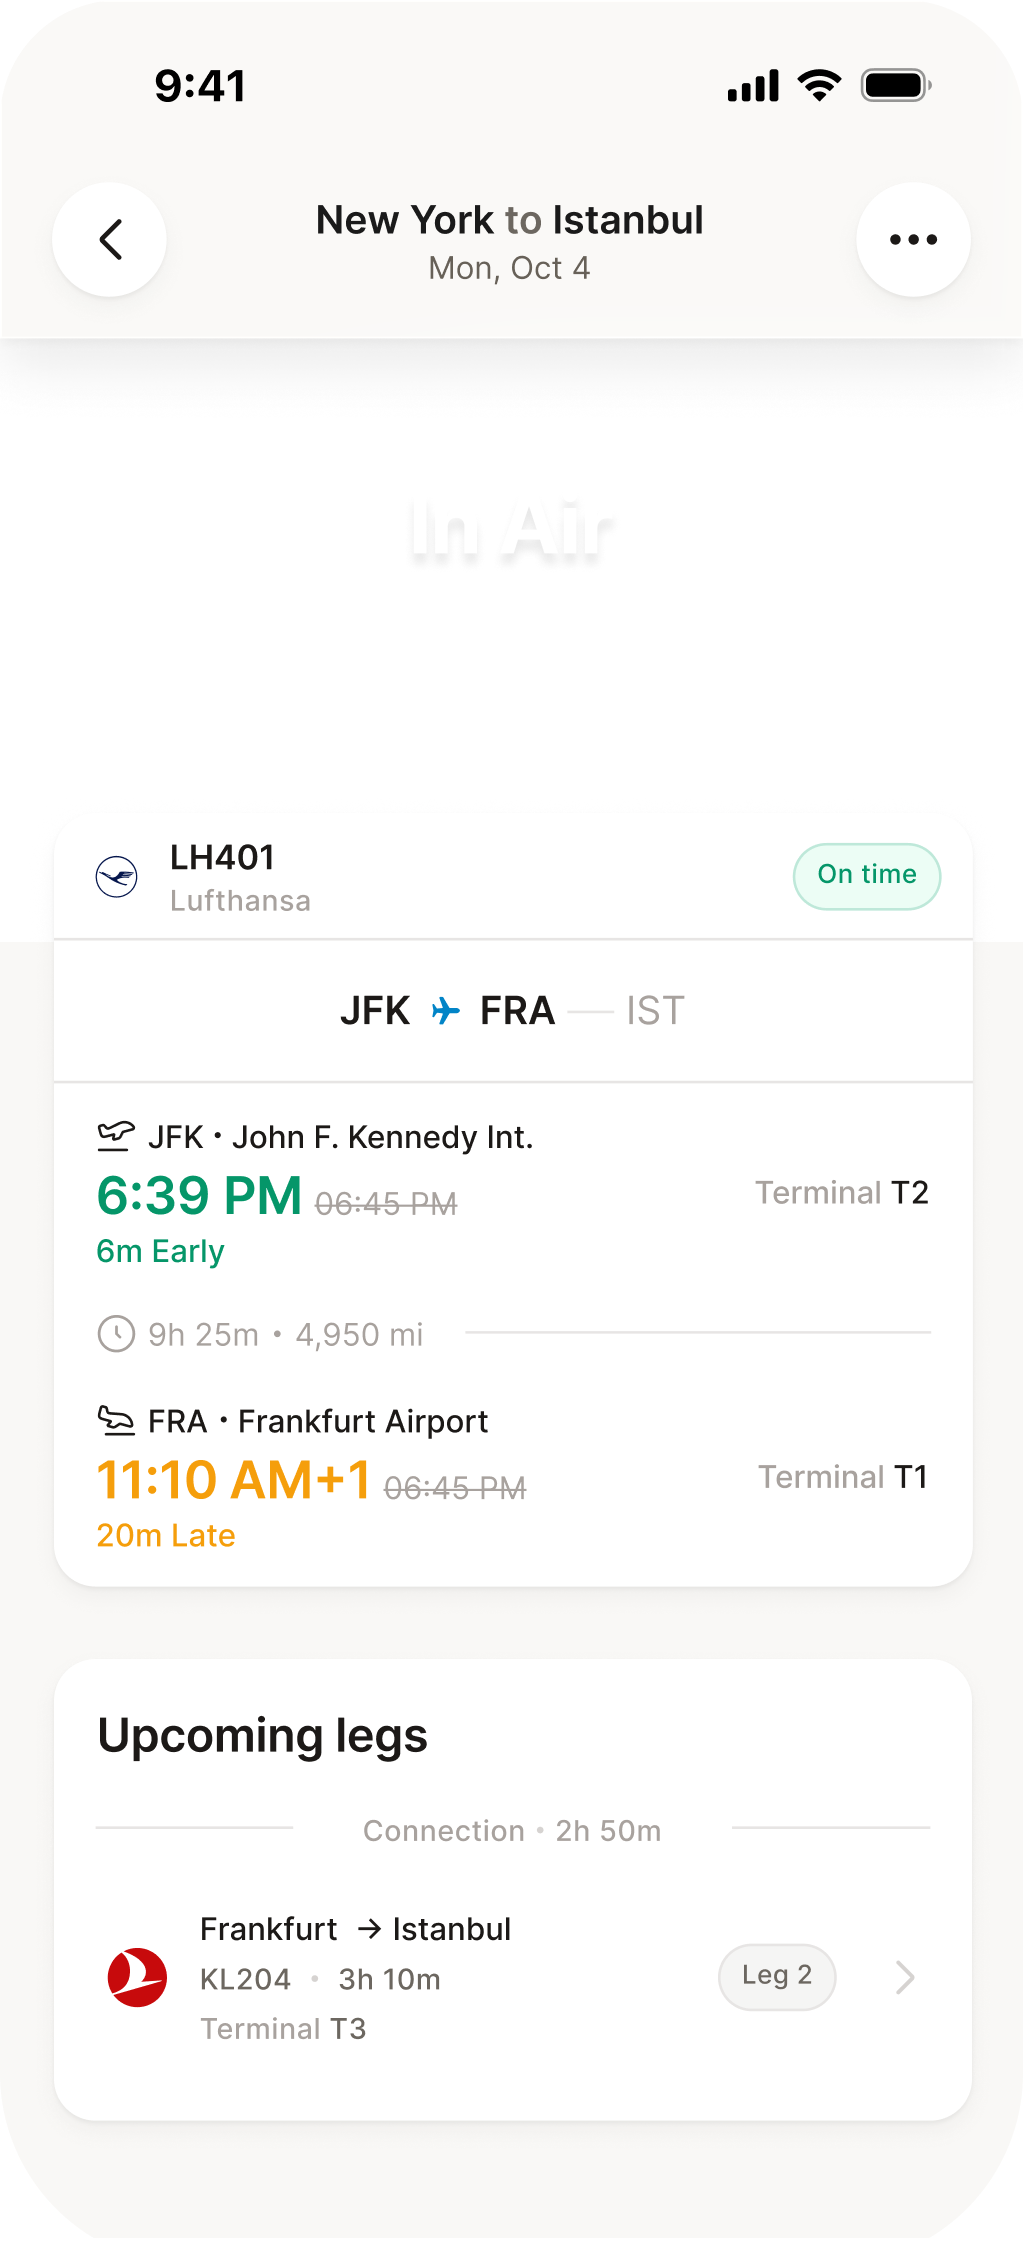
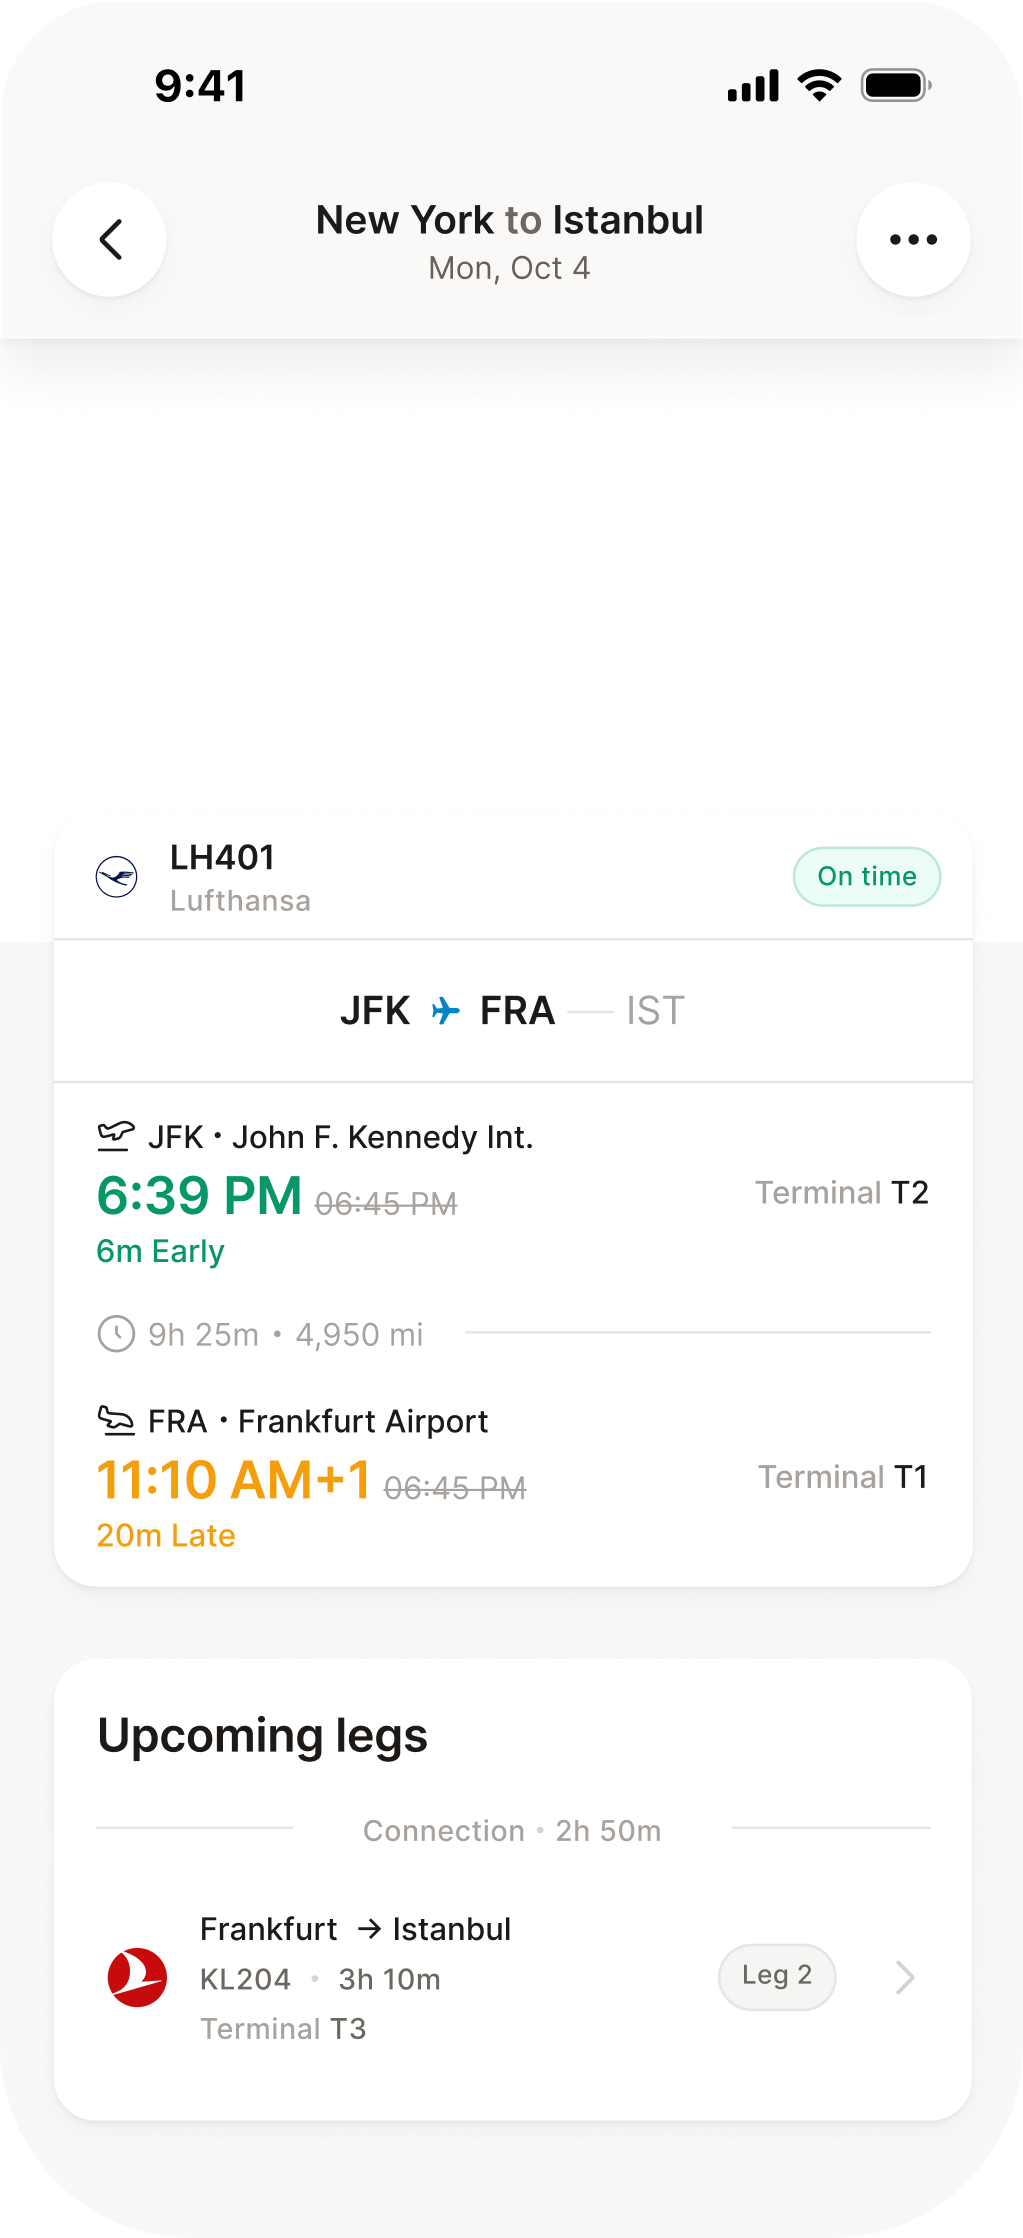
Update page and assets

diff --git a/app/page.tsx b/app/page.tsx
@@ -678,19 +678,19 @@ function FigmaHeroSection() {
 
   // Badge animations — scroll-triggered, fires once when badge area scrolls into view
   useEffect(() => {
-    const badges: [React.RefObject<HTMLDivElement | null>, React.RefObject<HTMLDivElement | null>, number, number][] = [
-      [lineRealRef,     pillRealRef,     0,    300],
-      [lineAircraftRef, pillAircraftRef, 200,  500],
-      [lineConnRef,     pillConnRef,     400,  700],
-      [lineHistRef,     pillHistRef,     600,  900],
-      [lineDelayRef,    pillDelayRef,    800,  1100],
-      [lineGateRef,     pillGateRef,     1000, 1300],
+    const badges: [React.RefObject<HTMLDivElement | null>, React.RefObject<HTMLDivElement | null>, number, number, boolean][] = [
+      [lineRealRef,     pillRealRef,     0,    300,  true],
+      [lineAircraftRef, pillAircraftRef, 200,  500,  false],
+      [lineConnRef,     pillConnRef,     400,  700,  false],
+      [lineHistRef,     pillHistRef,     600,  900,  false],
+      [lineDelayRef,    pillDelayRef,    800,  1100, true],
+      [lineGateRef,     pillGateRef,     1000, 1300, true],
     ];
 
     function runBadges() {
-      badges.forEach(([lineRef, pillRef, lineDelay, pillDelay]) => {
+      badges.forEach(([lineRef, pillRef, lineDelay, pillDelay, isLeft]) => {
         setTimeout(() => {
-          if (lineRef.current) lineRef.current.style.animation = 'line-reveal 0.45s ease-out forwards';
+          if (lineRef.current) lineRef.current.style.animation = `${isLeft ? 'line-reveal-rtl' : 'line-reveal'} 0.45s ease-out forwards`;
         }, lineDelay);
         setTimeout(() => {
           if (pillRef.current) pillRef.current.style.animation = 'badge-pop 0.55s cubic-bezier(0.34, 1.56, 0.64, 1) forwards';
@@ -746,6 +746,10 @@ function FigmaHeroSection() {
           @keyframes line-reveal {
             from { clip-path: inset(-2px 100% -2px -2px); }
             to   { clip-path: inset(-2px 0%   -2px -2px); }
+          }
+          @keyframes line-reveal-rtl {
+            from { clip-path: inset(-2px -2px -2px 100%); }
+            to   { clip-path: inset(-2px -2px -2px 0%);   }
           }
           @keyframes badge-pop {
             0%   { opacity: 0; transform: scale(0.78); filter: blur(5px); }
@@ -919,7 +923,7 @@ function FigmaHeroSection() {
             </div>
           </div>
           {/* Gate & terminal changes pill */}
-          <div className="hero-badge absolute flex gap-[8px] items-center left-[13px] top-[176px]" data-node-id="7300:48542">
+          <div className="hero-badge absolute flex gap-[8px] items-center left-[27px] top-[176px]" data-node-id="7300:48542">
             <div ref={pillGateRef} className="bg-gradient-to-b border border-[#e7e5e4] border-solid flex from-[38.542%] from-white gap-[12px] h-[48px] items-center justify-center px-[16px] py-[12px] relative rounded-[24px] shrink-0 to-[#f5f5f4] w-[251px]" data-name="Gate & terminal changes" data-node-id="7300:48543" style={{ opacity: 0 }}>
               <div className="relative shrink-0 size-[8px]">
                 <img alt="" className="absolute block max-w-none size-full" src={imgEllipse3} />
@@ -928,7 +932,7 @@ function FigmaHeroSection() {
             </div>
             <div className="flex items-center justify-center relative shrink-0">
               <div className="flex-none rotate-180">
-                <div ref={lineGateRef} className="h-0 relative w-[52px]" style={{ clipPath: 'inset(-2px 100% -2px -2px)' }}>
+                <div ref={lineGateRef} className="h-0 relative w-[52px]" style={{ clipPath: 'inset(-2px -2px -2px 100%)' }}>
                   <svg width="52" height="1" viewBox="0 0 52 1" fill="none" xmlns="http://www.w3.org/2000/svg" style={{ display: 'block', overflow: 'visible', position: 'absolute', top: '0px' }}><line y1="0.5" x2="52" y2="0.5" stroke="#A8A29E" strokeDasharray="5 5"/></svg>
                 </div>
               </div>
@@ -947,7 +951,7 @@ function FigmaHeroSection() {
             </div>
           </div>
           {/* Real-time flight tracking pill */}
-          <div className="hero-badge absolute flex gap-[8px] items-center left-[13px] top-[56px]" data-node-id="7300:48552">
+          <div className="hero-badge absolute flex gap-[8px] items-center left-[27px] top-[56px]" data-node-id="7300:48552">
             <div ref={pillRealRef} className="bg-gradient-to-b border border-[#e7e5e4] border-solid flex from-[38.542%] from-white gap-[12px] h-[48px] items-center justify-center px-[16px] py-[12px] relative rounded-[24px] shrink-0 to-[#f5f5f4] w-[251px]" data-name="Real-time flight tracking" data-node-id="7300:48553" style={{ opacity: 0 }}>
               <div className="relative shrink-0 size-[8px]">
                 <img alt="" className="absolute block max-w-none size-full" src={imgEllipse2} />
@@ -956,7 +960,7 @@ function FigmaHeroSection() {
             </div>
             <div className="flex items-center justify-center relative shrink-0">
               <div className="flex-none rotate-180">
-                <div ref={lineRealRef} className="h-0 relative w-[52px]" style={{ clipPath: 'inset(-2px 100% -2px -2px)' }}>
+                <div ref={lineRealRef} className="h-0 relative w-[52px]" style={{ clipPath: 'inset(-2px -2px -2px 100%)' }}>
                   <svg width="52" height="1" viewBox="0 0 52 1" fill="none" xmlns="http://www.w3.org/2000/svg" style={{ display: 'block', overflow: 'visible', position: 'absolute', top: '0px' }}><line y1="0.5" x2="52" y2="0.5" stroke="#A8A29E" strokeDasharray="5 5"/></svg>
                 </div>
               </div>
@@ -975,7 +979,7 @@ function FigmaHeroSection() {
             </div>
           </div>
           {/* Delay predictions pill */}
-          <div className="hero-badge absolute flex gap-[8px] items-center left-[13px] top-[296px]" data-node-id="7300:48562">
+          <div className="hero-badge absolute flex gap-[8px] items-center left-[27px] top-[296px]" data-node-id="7300:48562">
             <div ref={pillDelayRef} className="bg-gradient-to-b border border-[#e7e5e4] border-solid flex from-[38.542%] from-white gap-[12px] h-[48px] items-center justify-center px-[16px] py-[12px] relative rounded-[24px] shrink-0 to-[#f5f5f4] w-[251px]" data-name="Delay predictions" data-node-id="7300:48563" style={{ opacity: 0 }}>
               <div className="relative shrink-0 size-[8px]">
                 <img alt="" className="absolute block max-w-none size-full" src={imgEllipse6} />
@@ -984,7 +988,7 @@ function FigmaHeroSection() {
             </div>
             <div className="flex items-center justify-center relative shrink-0">
               <div className="flex-none rotate-180">
-                <div ref={lineDelayRef} className="h-0 relative w-[52px]" style={{ clipPath: 'inset(-2px 100% -2px -2px)' }}>
+                <div ref={lineDelayRef} className="h-0 relative w-[52px]" style={{ clipPath: 'inset(-2px -2px -2px 100%)' }}>
                   <svg width="52" height="1" viewBox="0 0 52 1" fill="none" xmlns="http://www.w3.org/2000/svg" style={{ display: 'block', overflow: 'visible', position: 'absolute', top: '0px' }}><line y1="0.5" x2="52" y2="0.5" stroke="#A8A29E" strokeDasharray="5 5"/></svg>
                 </div>
               </div>
@@ -1028,10 +1032,23 @@ function FigmaHeroSection() {
               <div className="absolute h-[755px] left-[0.36px] top-[-4px] w-[341px]" data-name="image 44" data-node-id="7379:46772">
                 <img alt="" className="absolute inset-0 max-w-none object-cover pointer-events-none size-full" src={imgPhoneApp} />
               </div>
+              {/* In Air text — Figma node 7300:40934 */}
+              <div className="absolute left-0 right-0 top-[140px] flex flex-col items-center gap-[3.5px] pointer-events-none">
+                <p className="text-[11.5px] font-medium text-white/70 text-center leading-[1.38]">Leg 1 of 2</p>
+                <p className="text-[24px] font-bold text-white text-center tracking-[-0.5px]" style={{ textShadow: '0px 3px 3px rgba(0,0,0,0.09)' }}>In Air</p>
+              </div>
+              {/* Landing time — below progress bar */}
+              <div className="absolute left-0 right-0 top-[218px] flex flex-col items-center pointer-events-none">
+                <div className="flex items-center justify-center gap-[3.5px]">
+                  <p className="text-[13px] font-semibold text-white/70 leading-[1.4]">Landing in</p>
+                  <p className="text-[13px] font-semibold text-white leading-[1.4]">6h 25m</p>
+                </div>
+              </div>
+
               <div className="absolute h-[30.848px] left-[15.36px] top-[187px] w-[74.331px]" data-node-id="7379:46773">
                 <div className="absolute bg-[#97d0ef] h-[6px] left-0 rounded-[929.555px] top-[15px] w-[309px]" />
-                <div className="absolute bg-gradient-to-l from-white h-[6px] left-0 rounded-[929.555px] to-[rgba(255,255,255,0.04)] top-[15px] w-[65px]" style={{animation:'plane-progress 120s linear infinite'}} />
-                <div className="absolute h-[30.848px] left-[45.88px] top-[2px] w-[27.806px]" data-name="Plane Model" data-node-id="7379:46775" style={{animation:'plane-progress 120s linear infinite'}}>
+                <div className="absolute bg-gradient-to-l from-white h-[6px] left-0 rounded-[929.555px] to-[rgba(255,255,255,0.04)] top-[15px] w-[65px]" style={{animation:'plane-progress 90s linear infinite'}} />
+                <div className="absolute h-[30.848px] left-[45.88px] top-[2px] w-[27.806px]" data-name="Plane Model" data-node-id="7379:46775" style={{animation:'plane-progress 90s linear infinite'}}>
                   <div className="absolute flex items-center justify-center left-[1.18px] size-[25.412px] top-[2.97px]">
                     <div className="flex-none rotate-[2.91deg]">
                       <div className="relative size-[24.214px]">
